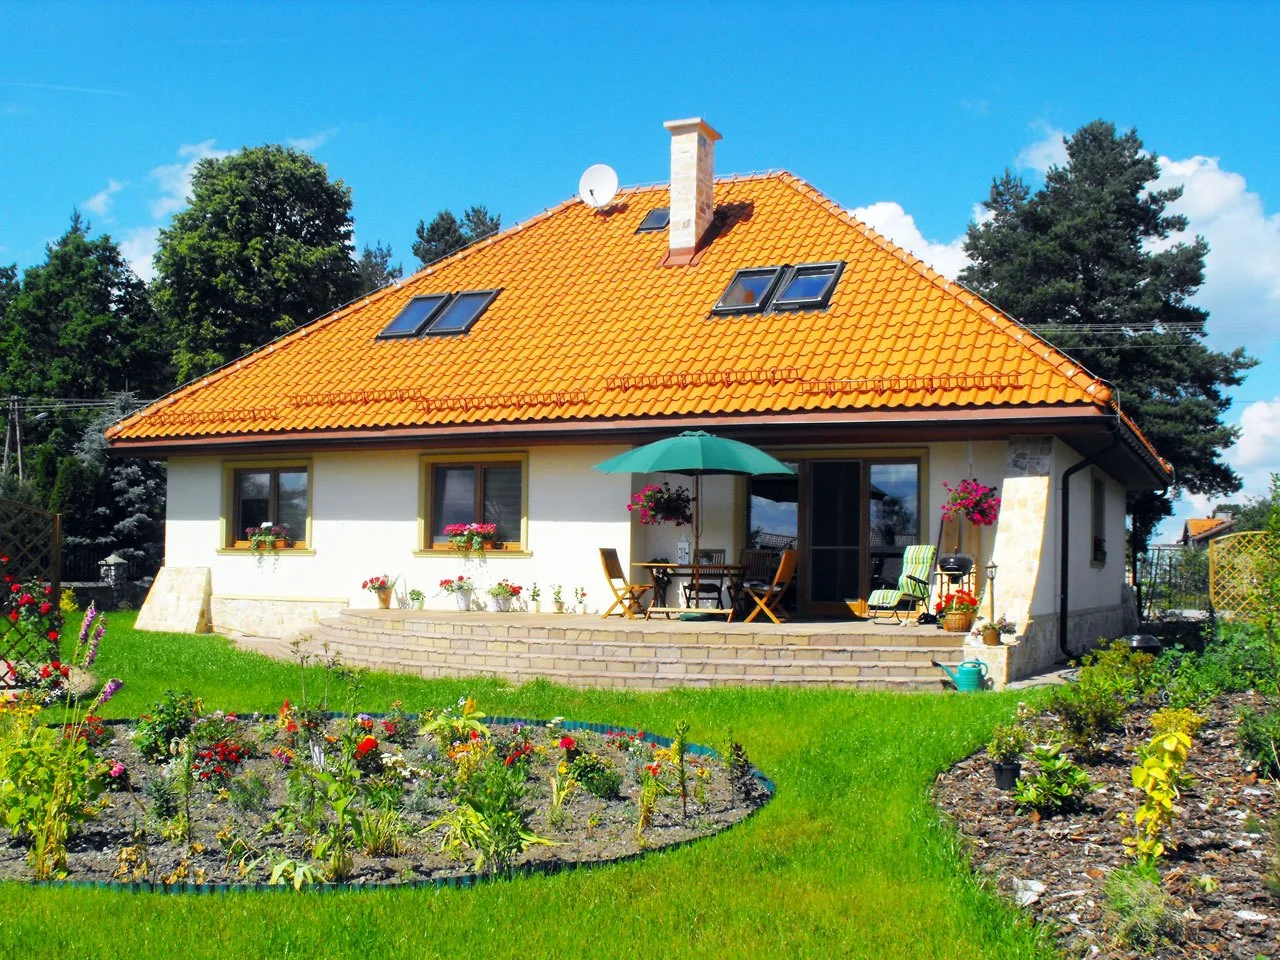
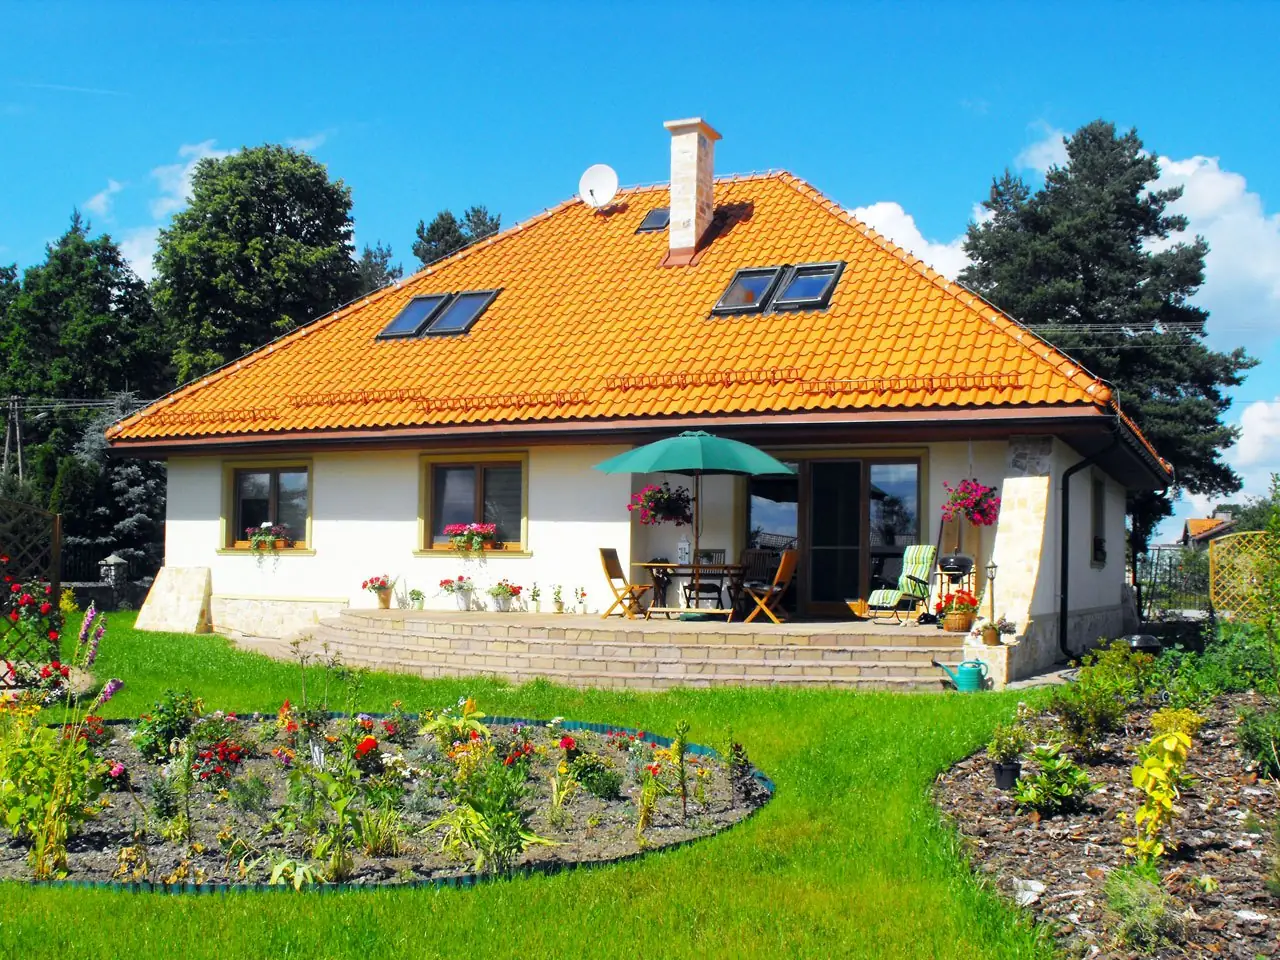
Add files via upload

diff --git a/index.html b/index.html
@@ -42,7 +42,15 @@
   <link rel="preload" as="image" href="1.webp" type="image/webp" fetchpriority="high"/>
   <link rel="preload" as="font" type="font/woff2" href="fonts/nunito-400.woff2" crossorigin/>
   <link rel="preload" as="font" type="font/woff2" href="fonts/barlow-condensed-800.woff2" crossorigin/>
-  <link rel="stylesheet" href="fonts.css"/>
+  <!-- @font-face inline zamiast <link fonts.css> — usuwa żądanie blokujące render (PageSpeed ~920 ms) -->
+  <style>
+    @font-face { font-family:'Barlow Condensed'; font-style:normal; font-weight:700; font-display:swap; src:url('fonts/barlow-condensed-700.woff2') format('woff2'); }
+    @font-face { font-family:'Barlow Condensed'; font-style:normal; font-weight:800; font-display:swap; src:url('fonts/barlow-condensed-800.woff2') format('woff2'); }
+    @font-face { font-family:'Barlow Condensed'; font-style:normal; font-weight:900; font-display:swap; src:url('fonts/barlow-condensed-900.woff2') format('woff2'); }
+    @font-face { font-family:'Nunito'; font-style:normal; font-weight:400; font-display:swap; src:url('fonts/nunito-400.woff2') format('woff2'); }
+    @font-face { font-family:'Nunito'; font-style:normal; font-weight:600; font-display:swap; src:url('fonts/nunito-600.woff2') format('woff2'); }
+    @font-face { font-family:'Nunito'; font-style:normal; font-weight:700; font-display:swap; src:url('fonts/nunito-700.woff2') format('woff2'); }
+  </style>
 
   <!-- ─── JSON-LD: LocalBusiness ─── -->
   <!-- DO UZUPEŁNIENIA — gdy zbierzesz PRAWDZIWE opinie w Google, wklej poniższy blok
@@ -743,7 +751,7 @@
 
 <!-- NAV -->
 <nav id="nav">
-  <a href="#hero" class="logo" aria-label="MarBud Ocieplenia — strona główna"><img src="MARBUD-logo-bialy.png" alt="MarBud Ocieplenia Warszawa" class="logo-img"/></a>
+  <a href="#hero" class="logo" aria-label="MarBud Ocieplenia — strona główna"><img src="MARBUD-logo-bialy.png" width="300" height="224" alt="MarBud Ocieplenia Warszawa" class="logo-img"/></a>
   <div class="nav-menu" id="navMenu">
     <a href="#services" class="nav-link">Usługi</a>
     <a href="#gallery" class="nav-link">Realizacje</a>
@@ -819,9 +827,9 @@
 <section id="why">
   <div class="why-wrap">
     <div class="why-photos rv">
-      <div class="ph span2"><img src="2.jpg" width="800" height="600" alt="Ocieplenie domu jednorodzinnego w Warszawie" loading="lazy"/></div>
-      <div class="ph"><img src="3.jpg" width="800" height="531" alt="Elewacja po ociepleniu — termomodernizacja Warszawa" loading="lazy"/></div>
-      <div class="ph"><img src="4.jpg" width="800" height="531" alt="Prace elewacyjne przy ociepleniu domu" loading="lazy"/></div>
+      <div class="ph span2"><picture><source srcset="2.webp" type="image/webp"/><img src="2.jpg" width="800" height="600" alt="Ocieplenie domu jednorodzinnego w Warszawie" loading="lazy"/></picture></div>
+      <div class="ph"><picture><source srcset="3.webp" type="image/webp"/><img src="3.jpg" width="800" height="531" alt="Elewacja po ociepleniu — termomodernizacja Warszawa" loading="lazy"/></picture></div>
+      <div class="ph"><picture><source srcset="4.webp" type="image/webp"/><img src="4.jpg" width="800" height="531" alt="Prace elewacyjne przy ociepleniu domu" loading="lazy"/></picture></div>
     </div>
     <div>
       <span class="sec-tag rv">Dlaczego warto</span>
@@ -1132,7 +1140,7 @@
 
 <!-- FOOTER -->
 <footer>
-  <a href="#hero" class="f-logo" aria-label="MarBud Ocieplenia"><img src="MARBUD-logo-bialy.png" alt="MarBud Ocieplenia" class="f-logo-img"/></a>
+  <a href="#hero" class="f-logo" aria-label="MarBud Ocieplenia"><img src="MARBUD-logo-bialy.png" width="300" height="224" alt="MarBud Ocieplenia" class="f-logo-img"/></a>
   <p>© 2026 MarBud Ocieplenia · ul. Domaniewska 13/15, 02-672 Warszawa · NIP [phone redacted] · REGON [phone redacted] · tel. [phone redacted]</p>
   <div class="f-links">
     <a href="#services">Usługi</a>

diff --git a/404.html b/404.html
@@ -12,7 +12,7 @@
 </head>
 <body>
   <nav class="sub-nav">
-    <a href="index.html" class="logo" aria-label="MarBud Ocieplenia — strona główna"><img src="MARBUD-logo-bialy.png" alt="MarBud Ocieplenia"/></a>
+    <a href="index.html" class="logo" aria-label="MarBud Ocieplenia — strona główna"><img src="MARBUD-logo-bialy.png" width="300" height="224" alt="MarBud Ocieplenia"/></a>
     <div class="nav-right">
       <a href="tel:[phone redacted]" class="nav-phone">[phone redacted]</a>
       <a href="index.html" class="nav-btn">Strona główna</a>

diff --git a/ocieplenia-bemowo.html b/ocieplenia-bemowo.html
@@ -39,7 +39,7 @@
 </head>
 <body>
   <nav class="sub-nav">
-    <a href="index.html" class="logo" aria-label="MarBud Ocieplenia — strona główna"><img src="MARBUD-logo-bialy.png" alt="MarBud Ocieplenia"/></a>
+    <a href="index.html" class="logo" aria-label="MarBud Ocieplenia — strona główna"><img src="MARBUD-logo-bialy.png" width="300" height="224" alt="MarBud Ocieplenia"/></a>
     <div class="nav-right">
       <a href="tel:[phone redacted]" class="nav-phone">[phone redacted]</a>
       <a href="index.html#contact" class="nav-btn">Bezpłatna wycena</a>

diff --git a/ocieplenia-bialoleka.html b/ocieplenia-bialoleka.html
@@ -39,7 +39,7 @@
 </head>
 <body>
   <nav class="sub-nav">
-    <a href="index.html" class="logo" aria-label="MarBud Ocieplenia — strona główna"><img src="MARBUD-logo-bialy.png" alt="MarBud Ocieplenia"/></a>
+    <a href="index.html" class="logo" aria-label="MarBud Ocieplenia — strona główna"><img src="MARBUD-logo-bialy.png" width="300" height="224" alt="MarBud Ocieplenia"/></a>
     <div class="nav-right">
       <a href="tel:[phone redacted]" class="nav-phone">[phone redacted]</a>
       <a href="index.html#contact" class="nav-btn">Bezpłatna wycena</a>

diff --git a/ocieplenia-jozefow.html b/ocieplenia-jozefow.html
@@ -39,7 +39,7 @@
 </head>
 <body>
   <nav class="sub-nav">
-    <a href="index.html" class="logo" aria-label="MarBud Ocieplenia — strona główna"><img src="MARBUD-logo-bialy.png" alt="MarBud Ocieplenia"/></a>
+    <a href="index.html" class="logo" aria-label="MarBud Ocieplenia — strona główna"><img src="MARBUD-logo-bialy.png" width="300" height="224" alt="MarBud Ocieplenia"/></a>
     <div class="nav-right">
       <a href="tel:[phone redacted]" class="nav-phone">[phone redacted]</a>
       <a href="index.html#contact" class="nav-btn">Bezpłatna wycena</a>

diff --git a/ocieplenia-marki.html b/ocieplenia-marki.html
@@ -39,7 +39,7 @@
 </head>
 <body>
   <nav class="sub-nav">
-    <a href="index.html" class="logo" aria-label="MarBud Ocieplenia — strona główna"><img src="MARBUD-logo-bialy.png" alt="MarBud Ocieplenia"/></a>
+    <a href="index.html" class="logo" aria-label="MarBud Ocieplenia — strona główna"><img src="MARBUD-logo-bialy.png" width="300" height="224" alt="MarBud Ocieplenia"/></a>
     <div class="nav-right">
       <a href="tel:[phone redacted]" class="nav-phone">[phone redacted]</a>
       <a href="index.html#contact" class="nav-btn">Bezpłatna wycena</a>

diff --git a/ocieplenia-mokotow.html b/ocieplenia-mokotow.html
@@ -39,7 +39,7 @@
 </head>
 <body>
   <nav class="sub-nav">
-    <a href="index.html" class="logo" aria-label="MarBud Ocieplenia — strona główna"><img src="MARBUD-logo-bialy.png" alt="MarBud Ocieplenia"/></a>
+    <a href="index.html" class="logo" aria-label="MarBud Ocieplenia — strona główna"><img src="MARBUD-logo-bialy.png" width="300" height="224" alt="MarBud Ocieplenia"/></a>
     <div class="nav-right">
       <a href="tel:[phone redacted]" class="nav-phone">[phone redacted]</a>
       <a href="index.html#contact" class="nav-btn">Bezpłatna wycena</a>

diff --git a/ocieplenia-piaseczno.html b/ocieplenia-piaseczno.html
@@ -39,7 +39,7 @@
 </head>
 <body>
   <nav class="sub-nav">
-    <a href="index.html" class="logo" aria-label="MarBud Ocieplenia — strona główna"><img src="MARBUD-logo-bialy.png" alt="MarBud Ocieplenia"/></a>
+    <a href="index.html" class="logo" aria-label="MarBud Ocieplenia — strona główna"><img src="MARBUD-logo-bialy.png" width="300" height="224" alt="MarBud Ocieplenia"/></a>
     <div class="nav-right">
       <a href="tel:[phone redacted]" class="nav-phone">[phone redacted]</a>
       <a href="index.html#contact" class="nav-btn">Bezpłatna wycena</a>

diff --git a/ocieplenia-targowek.html b/ocieplenia-targowek.html
@@ -39,7 +39,7 @@
 </head>
 <body>
   <nav class="sub-nav">
-    <a href="index.html" class="logo" aria-label="MarBud Ocieplenia — strona główna"><img src="MARBUD-logo-bialy.png" alt="MarBud Ocieplenia"/></a>
+    <a href="index.html" class="logo" aria-label="MarBud Ocieplenia — strona główna"><img src="MARBUD-logo-bialy.png" width="300" height="224" alt="MarBud Ocieplenia"/></a>
     <div class="nav-right">
       <a href="tel:[phone redacted]" class="nav-phone">[phone redacted]</a>
       <a href="index.html#contact" class="nav-btn">Bezpłatna wycena</a>

diff --git a/ocieplenia-ursus.html b/ocieplenia-ursus.html
@@ -39,7 +39,7 @@
 </head>
 <body>
   <nav class="sub-nav">
-    <a href="index.html" class="logo" aria-label="MarBud Ocieplenia — strona główna"><img src="MARBUD-logo-bialy.png" alt="MarBud Ocieplenia"/></a>
+    <a href="index.html" class="logo" aria-label="MarBud Ocieplenia — strona główna"><img src="MARBUD-logo-bialy.png" width="300" height="224" alt="MarBud Ocieplenia"/></a>
     <div class="nav-right">
       <a href="tel:[phone redacted]" class="nav-phone">[phone redacted]</a>
       <a href="index.html#contact" class="nav-btn">Bezpłatna wycena</a>

diff --git a/ocieplenia-ursynow.html b/ocieplenia-ursynow.html
@@ -39,7 +39,7 @@
 </head>
 <body>
   <nav class="sub-nav">
-    <a href="index.html" class="logo" aria-label="MarBud Ocieplenia — strona główna"><img src="MARBUD-logo-bialy.png" alt="MarBud Ocieplenia"/></a>
+    <a href="index.html" class="logo" aria-label="MarBud Ocieplenia — strona główna"><img src="MARBUD-logo-bialy.png" width="300" height="224" alt="MarBud Ocieplenia"/></a>
     <div class="nav-right">
       <a href="tel:[phone redacted]" class="nav-phone">[phone redacted]</a>
       <a href="index.html#contact" class="nav-btn">Bezpłatna wycena</a>

diff --git a/ocieplenia-wawer.html b/ocieplenia-wawer.html
@@ -39,7 +39,7 @@
 </head>
 <body>
   <nav class="sub-nav">
-    <a href="index.html" class="logo" aria-label="MarBud Ocieplenia — strona główna"><img src="MARBUD-logo-bialy.png" alt="MarBud Ocieplenia"/></a>
+    <a href="index.html" class="logo" aria-label="MarBud Ocieplenia — strona główna"><img src="MARBUD-logo-bialy.png" width="300" height="224" alt="MarBud Ocieplenia"/></a>
     <div class="nav-right">
       <a href="tel:[phone redacted]" class="nav-phone">[phone redacted]</a>
       <a href="index.html#contact" class="nav-btn">Bezpłatna wycena</a>